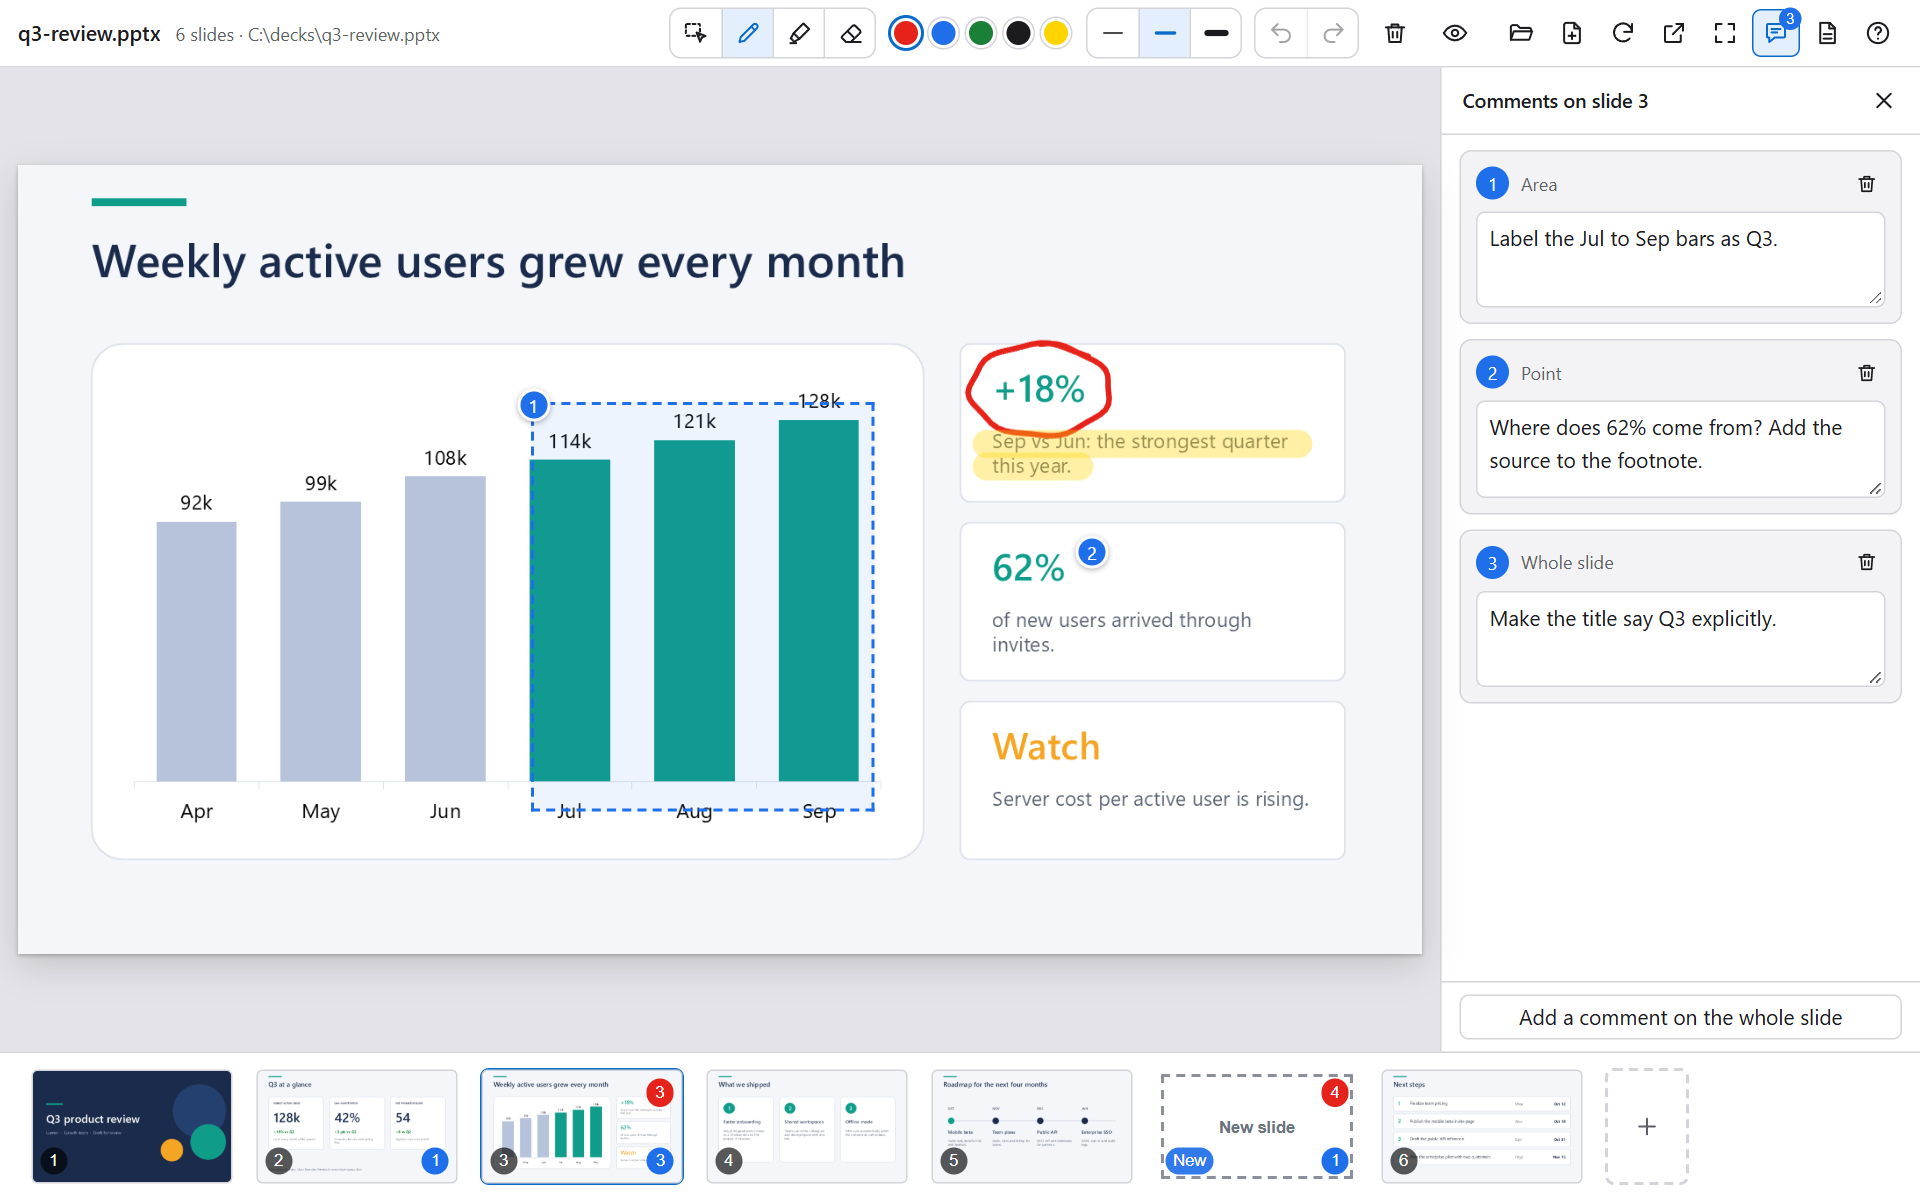
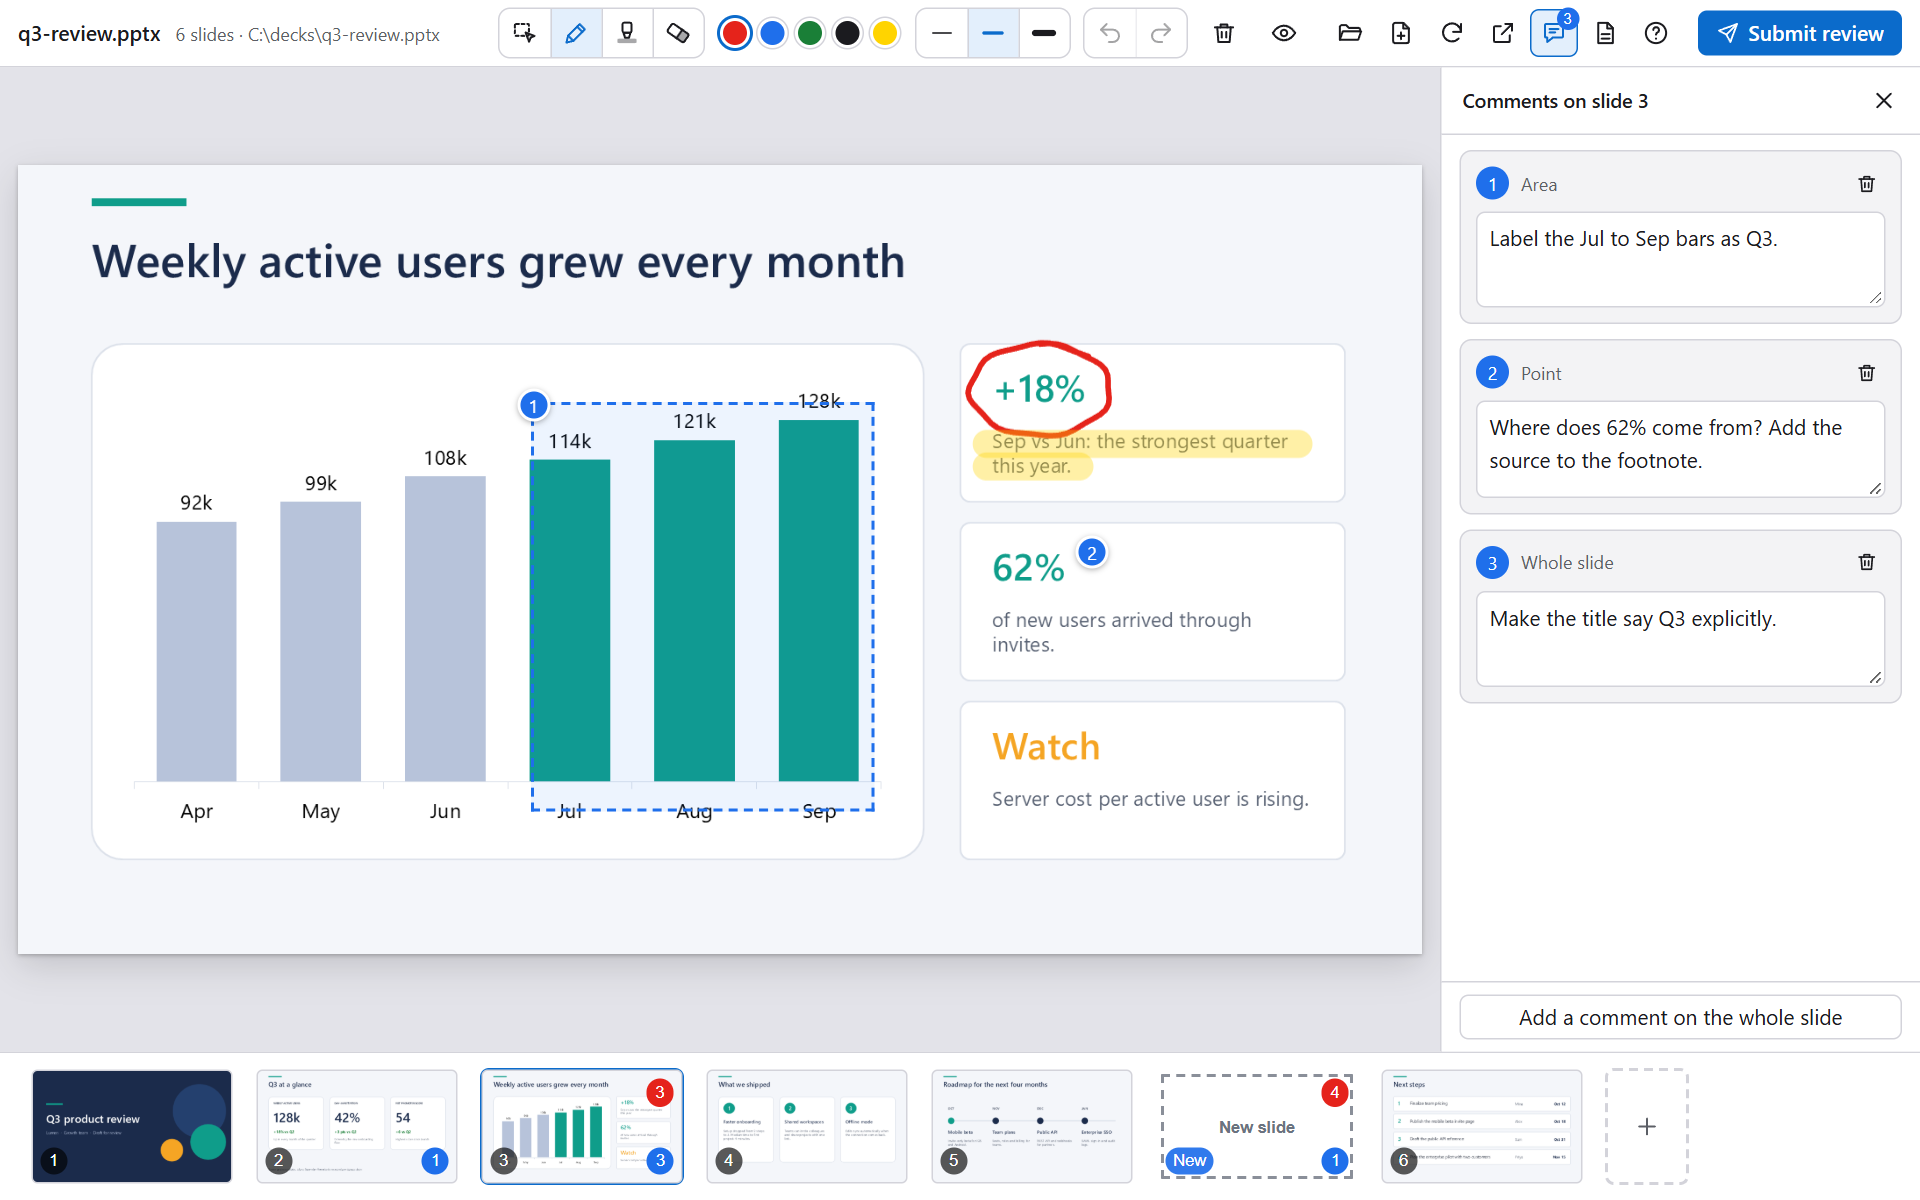
docs: document Submit review and the comment pane, retake screenshots
Screenshots are retaken for the new toolbar and add the submit panel and the resized pane in English and Japanese. The architecture notes cover the new routes, modules and the review message.

Changed region(s): [[0.25, 0.0, 1.0, 0.0617]]

diff --git a/README.md b/README.md
@@ -34,16 +34,21 @@ Then it edits the deck, the canvas re-renders the file by itself, and you review
 | | |
 |:--|:--|
 | **Draw on slides** | Pen, highlighter and eraser, five colors, three widths, undo and redo. Marks are kept per slide and stay on a slide as long as its picture does not change. |
-| **Comment like in PowerPoint** | Click a spot, drag an area, or comment on the whole slide. Pins are numbered and the same numbers reach the agent. |
+| **Comment like in PowerPoint** | Click a spot, drag an area, or comment on the whole slide. Pins are numbered and the same numbers reach the agent. Drag the edge of the comment panel to make it as wide as you like. |
 | **Sketch new slides** | Add a blank slide between any two slides and sketch the layout. It exists only in the viewer until the agent builds it. No deck yet? Start a sketchbook. |
 | **Reorder and delete** | Drag slides in the strip to reorder, or remove them, with a backup of the file and undo. Only the slide list inside the `.pptx` is rewritten, so nothing is re-saved by PowerPoint. |
+| **Submit when you are done** | Press **Submit review** and the agent is asked to read your marks, comments and new slides and to make the changes. Add a note for anything the marks do not say. |
 | **Made for the agent** | Actions to open a deck, jump to a slide, read the outline, notes and marks, and rebuild. It tells the agent when you have unread marks. |
 | **Local and private** | Renders through your own PowerPoint. Everything stays on your PC: no telemetry, no remote assets. |
 | **English and Japanese** | Switch in the help panel. |
 
 <table>
   <tr>
+    <td width="50%"><img src="./docs/images/submit.png" alt="The Submit review panel with a note for the agent"><br><sub><b>Submit review</b>: one button sends everything to the agent.</sub></td>
     <td width="50%"><img src="./docs/images/comments.png" alt="Writing a comment on a dragged area"><br><sub><b>Comments</b>: a point, an area or the whole slide.</sub></td>
+  </tr>
+  <tr>
+    <td width="50%"><img src="./docs/images/resize.png" alt="Dragging the edge of the comment panel to make it wider"><br><sub><b>Your layout</b>: drag the comment panel to the width you want.</sub></td>
     <td width="50%"><img src="./docs/images/new-slide.png" alt="A sketch on a new slide between two slides"><br><sub><b>New slide</b>: sketch an idea, the agent builds it.</sub></td>
   </tr>
   <tr>
@@ -56,7 +61,7 @@ Then it edits the deck, the canvas re-renders the file by itself, and you review
 
 ```mermaid
 flowchart LR
-  A[You draw and comment on the slide] --> B[You tell the agent in chat]
+  A[You draw and comment on the slide] --> B[You press Submit review, or tell the agent in chat]
   B --> C[Agent reads marks, comments and the numbered image]
   C --> D[Agent edits and saves the deck]
   D --> E[Canvas re-renders the file]
@@ -64,8 +69,9 @@ flowchart LR
 ```
 
 - Marks are stored as fractions of the slide (0 to 1), so they stay in place at any window size.
+- **Submit review** sends a message to the agent in the session that opened the canvas. It says which deck and which slides have new feedback, carries your note, and tells the agent to read everything with `get_annotations`. If the agent is busy, the message waits its turn. Only feedback the agent has not read yet can be submitted, and the same feedback only once; drawing or commenting again makes the button available again.
 - When the agent saves a new version, marks stay on slides whose picture did not change. Marks on changed slides move to an archive, so old feedback does not point at new content.
-- On your next message, the canvas tells the agent which slides have marks it has not read yet.
+- If you write to the agent in chat instead, the canvas tells it on your next message which slides have marks it has not read yet.
 - The canvas does not edit slide content. Your agent does that with its own tools, such as python-pptx, a build script or PowerPoint automation.
 
 ## Requirements
@@ -91,13 +97,13 @@ Start a new session afterwards: a canvas appears only in sessions that begin aft
 > The canvas id is `pptx-review-canvas`. Install the plugin from one source only: the same plugin installed from two sources registers the canvas twice.
 
 > [!NOTE]
-> The extension registers one hook that runs when you send a message: if you have marks that the agent has not read yet, it adds a short hidden note saying so. Because hooks are a privileged capability, your Copilot client asks you to approve the extension the first time. The hook is in [`extension.mjs`](./com.github.copilot/extensions/pptx-review-canvas/extension.mjs).
+> The extension registers one hook that runs when you send a message: if you have marks that the agent has not read yet, it adds a short hidden note saying so. Because hooks are a privileged capability, your Copilot client asks you to approve the extension the first time. The hook is in [`extension.mjs`](./com.github.copilot/extensions/pptx-review-canvas/extension.mjs). **Submit review** sends a message to the agent through the same session API.
 
 ## Quick start
 
 1. Start a new Copilot session and ask: *"Open `samples/q3-review.pptx` in PowerPoint Review."* The first render takes a few seconds while PowerPoint starts.
 2. Pick the comment tool (`C`) and click a spot on a slide, or draw a circle with the pen (`P`). Add a few comments.
-3. Tell the agent what to do: *"Apply my marks and comments."* It reads them, edits the deck and saves. The canvas refreshes by itself.
+3. Press **Submit review** at the top right, add a note if you like, and submit. The agent reads your marks and comments, edits the deck and saves it. The canvas refreshes by itself. (You can also just tell the agent in chat, for example *"Apply my marks and comments."*)
 
 To start from nothing, use **Open a deck** in the top bar, then **Start a sketchbook**, or ask the agent to create a new deck.
 
@@ -112,11 +118,12 @@ To start from nothing, use **Open a deck** in the top bar, then **Start a sketch
 | Undo and redo | `Ctrl+Z` `Ctrl+Y` | Undoes marks, comment deletions and slide deletions, latest first. |
 | Show or hide marks | `M` | |
 | Notes | `N` | Shows the speaker notes. |
-| Full screen | `F` | |
 | Previous and next slide | `←` `→` | |
 | Move the current slide | `Alt+←` `Alt+→` | Rewrites the `.pptx`; a backup is kept. |
 | New slide after the current one | `Ctrl+M` | |
 | Delete the current slide | `Delete` | Undo with `Ctrl+Z`. |
+| Submit review | | The button at the top right opens a panel with an optional note (`Ctrl+Enter` submits). It works when the agent has something new to read. |
+| Comment panel width | | Drag its left edge. Double-click the edge to reset; with the edge focused, `←` `→` change the width (hold `Shift` for bigger steps). The width is remembered. |
 
 Hover between two slides in the strip and press **+** to add a new slide there. Press **?** for the in-app help.
 

diff --git a/docs/architecture.md b/docs/architecture.md
@@ -34,7 +34,7 @@ All paths are inside `com.github.copilot/extensions/pptx-review-canvas/`.
 
 | File | Responsibility |
 |:--|:--|
-| `extension.mjs` | Registers the canvas, validates action input, and adds a hook that tells the agent about unread marks. |
+| `extension.mjs` | Registers the canvas, validates action input, sends the message of a submitted review to the agent's session, and adds a hook that tells the agent about unread marks. |
 | `lib/registry.mjs` | One viewer per canvas instance; owns the shared stores, the deck cache and the i18n object. |
 | `lib/viewer-instance.mjs` | The HTTP server, state snapshots and events, file watching, and the API for marks, comments, new slides, reordering, deleting and creating decks. |
 | `lib/deck-cache.mjs` | Render cache. Shares a running render and stops it only when everyone gave up. Reordering reuses already rendered images (`derive`). |
@@ -50,12 +50,14 @@ All paths are inside `com.github.copilot/extensions/pptx-review-canvas/`.
 | `lib/annotations.mjs` | Validates, stores and carries over marks, comments and new slides. They follow a slide by the hash of its image, or by position. |
 | `lib/marks.mjs` | Groups strokes into marks and finds the shapes under a mark or comment. |
 | `lib/raster.mjs`, `lib/png.mjs` | Draws mark numbers (black) and comment rectangles and numbers (blue) onto PNGs, and writes blank pages. |
-| `lib/store.mjs` | Atomic record files, the data root, per-deck last position, and settings. |
+| `lib/store.mjs` | Atomic record files, the data root, per-deck last position, and settings (the language and the width of the comments pane). |
 | `lib/i18n.mjs`, `lib/locales/` | Message catalogs for everything the server says, see [Languages](#languages). |
 | `assets/index.html`, `assets/styles.css` | Structure and look. The page policy is `style-src 'self'`, so there are no inline styles. |
 | `assets/main.js` | The page: the strip, the **+** buttons, new slides, keys, help, opening and creating decks. |
 | `assets/ink.js` | Drawing, the comment tool (click for a point, drag for an area), tools, undo and redo. |
 | `assets/comments.js` | The comment list, pins on the slide, and adding, editing and deleting comments. |
+| `assets/resize.js` | The drag handle on the left edge of the comment pane: pointer and keyboard, limits, and reporting the final width for saving. |
+| `assets/review.js` | The Submit review button and its panel (optional note); shows when a review can be submitted and posts it. |
 | `assets/drag.js` | Horizontal drag in the strip; works out where the slide would go, `main.js` performs the move. |
 | `assets/i18n.js`, `assets/locales/` | Message catalogs for the page. |
 | `assets/icons.js` | Inline SVG icons. |
@@ -76,6 +78,16 @@ The page talks to its own server only. Requests must come from the loopback host
 | `POST /api/history/undo`, `.../redo` | Undo and redo. |
 | `POST /api/open`, `/api/current`, `/api/refresh`, `/api/open-external` | Open a deck, change slide, render again, open in PowerPoint. |
 | `POST /api/language` | Switch the language. |
+| `POST /api/comments-width` | Save the width of the comment pane in pixels (`null` for the default). |
+| `POST /api/review/submit` | Send the review to the agent: `{ note? }`. Answers `409` when there is nothing new to submit, when the same marks were already submitted, or when the agent's session cannot be reached. |
+
+## Submitting a review
+
+A viewer is created with a `sendToAgent` function by the registry, which `extension.mjs` fills with `session.send({ prompt, displayPrompt })` (the session object that `joinSession` returned). The message is queued behind whatever the agent is doing, and the chat shows the short `displayPrompt` instead of the whole prompt.
+
+- `ViewerInstance.reviewInfo()` is what the page reads (`state.review`): the slides and new slides the agent has not read, and whether they were submitted already. A submission remembers the version of the marks (`deckKey:rev`); any change to the marks makes a new version, and reading them clears the unread flags, so the button comes back on only for new feedback.
+- The prompt names the deck and the canvas instance, lists what is new, carries the user's note, and tells the agent to call `get_annotations` and to ask before editing when a comment is unclear. It follows the current language, like the hook text.
+- The hook that adds the unread-marks note leaves this message alone, because the message already says where to read.
 
 ## Rewriting a deck
 
@@ -101,7 +113,7 @@ Everything is kept under `~/.copilot/extension-data/pptx-review-canvas/` (or `$C
 | `backups/` | The deck as it was before a rewrite: the last one per file, and at most the newest five overall. |
 | `undo/` | The deck as it was before a deletion, for undo. Cleaned when the history ends, and at start-up when older than a day. |
 | `work/` | Temporary render directories. |
-| `settings.json` | The chosen language. |
+| `settings.json` | The chosen language and the width of the comment pane. Each is saved only once the user chooses it. |
 
 Records are `{ format, version, data }` files written atomically. A record that cannot be read is renamed to `*.corrupt-<time>` instead of being overwritten.
 

diff --git a/AGENTS.md b/AGENTS.md
@@ -17,6 +17,9 @@ How to work in this repository, for agents and people. [README.md](./README.md) 
 - **Existing data must keep loading.** Records are `{ format, version, data }`; changing a record shape needs a new version and a migration. Data written by older versions (Japanese draft titles, for example) is still read.
 - **Short paths.** Keep every file path in the repository at 72 characters or fewer; see CONTRIBUTING.md for why.
 - **No one-click VS Code install link in a README.** GitHub removes `vscode://` links when it renders Markdown, and `https://vscode.dev/redirect` appends `&url=...` to the link it opens, which VS Code decodes into a second `plugin` parameter ("The plugin link must specify a plugin name."). Describe the steps in words. A `vscode://chat-plugin/install?source=owner%2Frepo&plugin=name` link works only on a page that keeps it, such as the Awesome Copilot listing.
+- **Assets are read when a viewer starts.** After editing a file in `assets/`, open a new viewer (or restart a test harness) before checking the page; a running viewer keeps serving the old copy.
+- **A tool button toggles off when clicked while active.** In a browser test, select another tool or do not click the active one before drawing.
+- **Check icons at 18 px.** The pen, highlighter and eraser in `assets/icons.js` must stay distinguishable at toolbar size; look at them rendered, not only as SVG source.
 - **Screenshots** in `docs/images/` and `assets/preview.png` show only the sample deck on a neutral path (no user names, no real decks). Retake them when the UI changes: start a viewer with the real renderer on a copy of the sample deck, and drive the page with a browser.
 
 ## Commits
